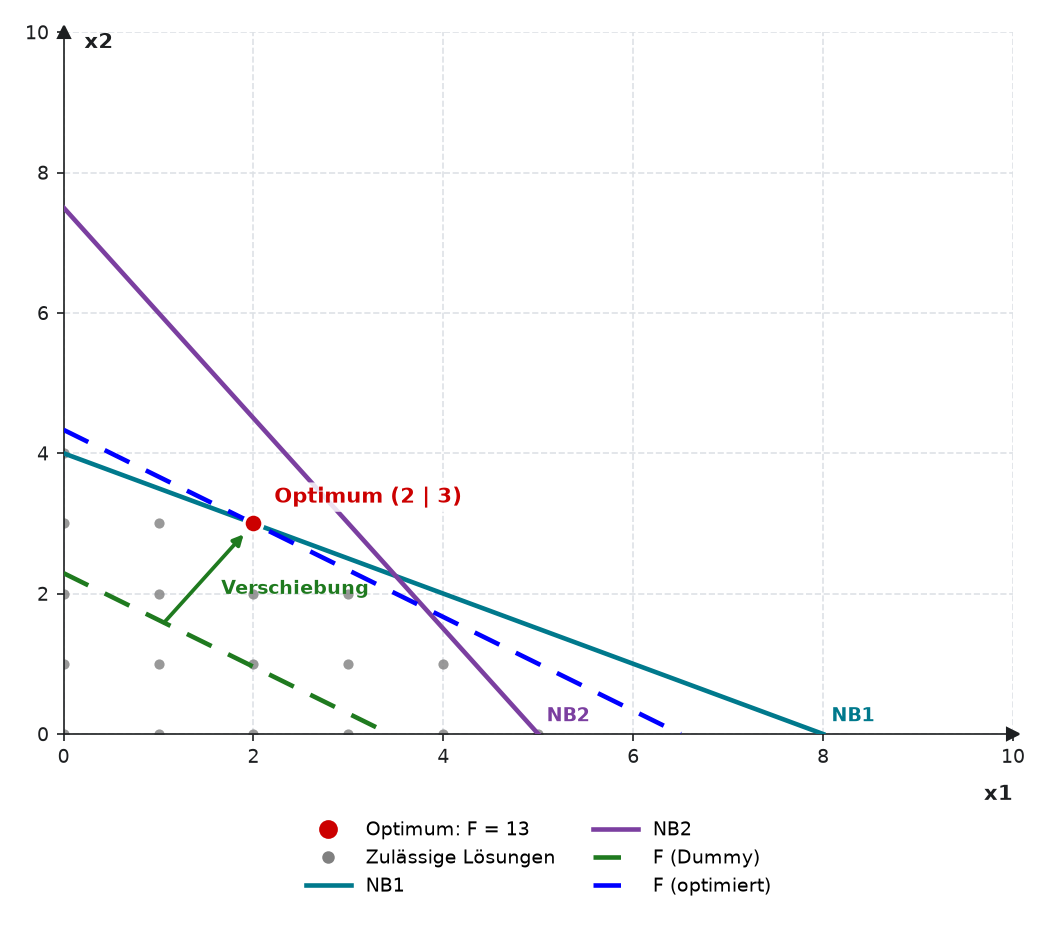
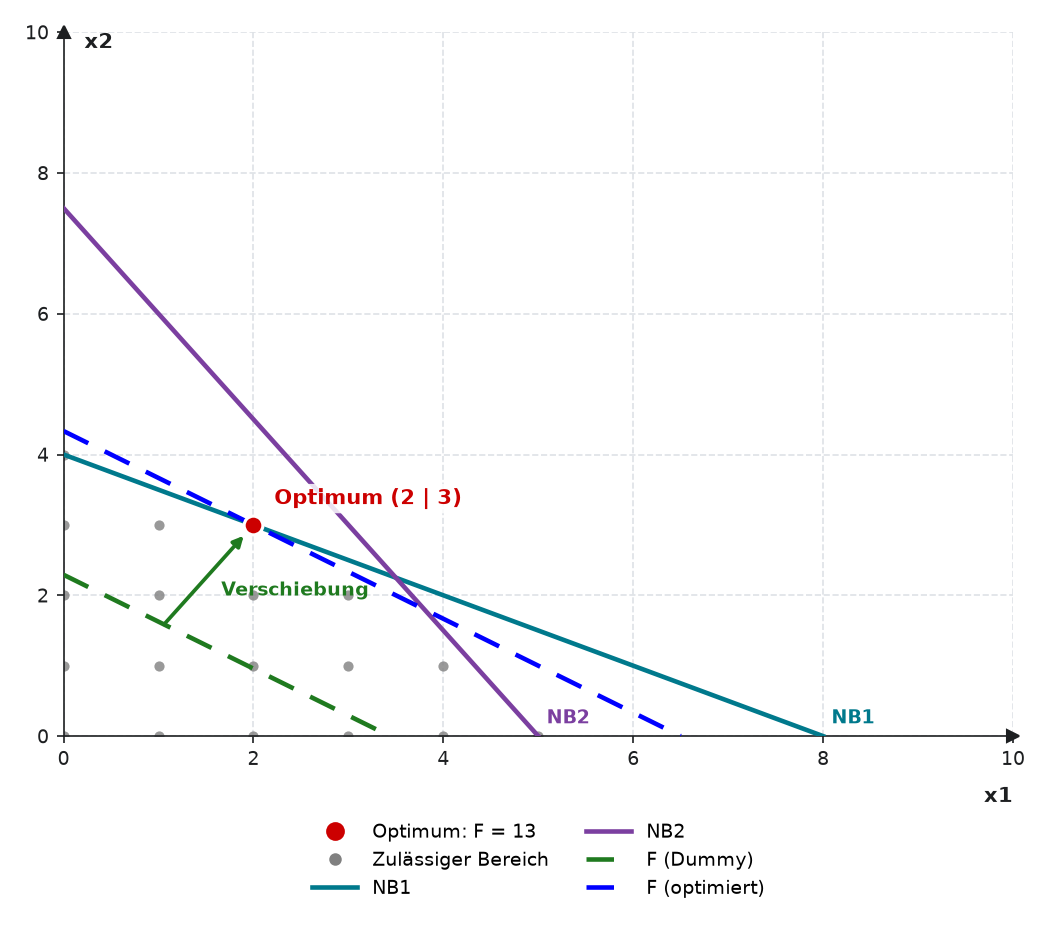
Resposovität

diff --git a/shiny_files/www/work.css b/shiny_files/www/work.css
@@ -150,7 +150,8 @@
   .os-credit-end { display: block; padding-top: 0.25rem; }
   .os-sidebar-btn[data-sidebar-toggle] { display: none; }
   .os-main { gap: 0.75rem; }
-  .os-graph { height: min(122vw, 36rem) !important; min-height: 0; }
+  /* tall enough for the axes and the one-column legend below them (plotting.draw, compact) */
+  .os-graph { height: min(160vw, 44rem) !important; min-height: 0; }
   .os-results > .card { min-height: 0; }
   .os-results .card-body { overflow-x: auto; }
   .os-results .os-table { font-size: 0.8125rem; }

diff --git a/shiny_files/optisense/pages/work/plotting.py b/shiny_files/optisense/pages/work/plotting.py
@@ -16,7 +16,7 @@ from optisense.config import DUMMY, FEASIBLE, GRID, INK, OPTIMIZED, OPTIMUM, con
 from optisense.i18n import fmt_num, t  # noqa: E402
 
 
-def _base_axes(ax, xmax, ymax, k=1.0):
+def _base_axes(ax, xmax, ymax, k=1.0, compact=False):
     ax.set_xlim(0, xmax)
     ax.set_ylim(0, ymax)
     for side in ("top", "right"):
@@ -28,7 +28,10 @@ def _base_axes(ax, xmax, ymax, k=1.0):
     ax.annotate("x1", (1, 0), xycoords="axes fraction", xytext=(0, -24), textcoords="offset points",
                 ha="right", va="top", color=INK, fontsize=10 * k, fontweight="bold")
     ax.annotate("x2", (0, 1), xycoords="axes fraction", xytext=(10, 0), textcoords="offset points",
-                ha="left", va="top", color=INK, fontsize=10 * k, fontweight="bold")
+                ha="left", va="top", color=INK, fontsize=10 * k, fontweight="bold",
+                # on a phone the region fills the axes and lines run through the corner: keep “x2” readable
+                bbox={"boxstyle": "round,pad=0.15", "fc": "white", "ec": "none", "alpha": 0.85} if compact else None,
+                zorder=8 if compact else 3)
     ax.tick_params(colors=INK, labelsize=9 * k)
     ax.plot(1, 0, ">", color=INK, transform=ax.get_yaxis_transform(), clip_on=False, ms=6 * k)
     ax.plot(0, 1, "^", color=INK, transform=ax.get_xaxis_transform(), clip_on=False, ms=6 * k)
@@ -37,32 +40,36 @@ def _base_axes(ax, xmax, ymax, k=1.0):
 def _label_at(ax, end, text, color, xmax, ymax, k):
     x, y = end
     ha = "right" if x > 0.8 * xmax else "left"
+    va = "top" if y > 0.9 * ymax else "bottom"   # near the top edge below the line, so it stays inside the axes
     x = min(max(x, 0.01 * xmax), 0.99 * xmax)
-    y = min(max(y, 0.0), 0.97 * ymax)
-    return ax.annotate(text, (x, y), xytext=(-4 if ha == "right" else 4, 4), textcoords="offset points",
-                       ha=ha, va="bottom", color=color, fontsize=9 * k, fontweight="bold",
+    y = min(max(y, 0.0), ymax)
+    return ax.annotate(text, (x, y), xytext=(-4 if ha == "right" else 4, -4 if va == "top" else 4), textcoords="offset points",
+                       ha=ha, va=va, color=color, fontsize=9 * k, fontweight="bold",
                        bbox={"boxstyle": "round,pad=0.15", "fc": "white", "ec": "none", "alpha": 0.75})
 
 
 def _label_line(ax, seg, text, color, xmax, ymax, k=1.0, taken=None):
-    """Write `text` next to an end of a line segment, kept inside the axes.
+    """Write `text` next to a line segment, kept inside the axes.
 
-    The end further right comes first (for vertical lines the upper end). `taken` holds the boxes of the labels
-    written before: if the label would cover one of them – e.g. two lines that meet the x1 axis close together –
-    it goes to the other end of its line."""
+    The end further right comes first (for vertical lines the upper end), then the other end, then points along the
+    line. `taken` holds the boxes of the texts written before: a label that would cover one of them – e.g. two lines
+    that meet the x1 axis close together – moves on to the next place."""
     (xa, ya), (xb, yb) = seg
     first = (xb, yb) if (xb, yb) >= (xa, ya) else (xa, ya)
     if abs(xa - xb) < 1e-9:
         first = (xa, max(ya, yb))
     other = (xa, ya) if first == (xb, yb) else (xb, yb)
+    along = [(other[0] + f * (first[0] - other[0]), other[1] + f * (first[1] - other[1])) for f in (0.75, 0.25, 0.5)]
     renderer = ax.figure.canvas.get_renderer()
-    for end in (first, other):
-        label = _label_at(ax, end, text, color, xmax, ymax, k)
+    axes_box = ax.get_window_extent(renderer)
+    for place in (first, other, *along):
+        label = _label_at(ax, place, text, color, xmax, ymax, k)
         box = label.get_window_extent(renderer).padded(3 * k)
-        if taken is None or not any(box.overlaps(b) for b in taken):
+        inside = box.x0 >= axes_box.x0 - 2 and box.x1 <= axes_box.x1 + 2 and box.y1 <= axes_box.y1 + 2
+        if taken is None or (inside and not any(box.overlaps(b) for b in taken)):
             break
         label.remove()
-    else:   # both ends are taken: the usual end
+    else:   # no free place: the usual end
         label = _label_at(ax, first, text, color, xmax, ymax, k)
         box = label.get_window_extent(renderer).padded(3 * k)
     if taken is not None:
@@ -75,7 +82,10 @@ def draw(objective, constraints, var_types, solution, lang, figsize=None, scale=
     objective: dict or None; constraints: active constraints, each with "color_index";
     solution: result of core.solve or None.
     scale: factor for fonts, lines and markers; the page sends it so large screens get larger labels.
-    compact: narrow graph (smartphones); the legend keeps a fixed distance below the x1 label.
+    compact: narrow graph (smartphones): the axes zoom to the feasible region and the optimum, the legend has one
+    column and keeps a fixed distance below the x1 label, the optimum is labelled with its coordinates only and the
+    shift of the objective line without a word – so that everything stays readable on 300 px.
+    figsize should be the real size: the line labels are placed in the final layout so that none covers another.
     """
     k = max(0.8, min(float(scale or 1.0), 2.0))
     fig, ax = plt.subplots(figsize=figsize or (7, 6.2))
@@ -89,8 +99,8 @@ def draw(objective, constraints, var_types, solution, lang, figsize=None, scale=
         return fig
 
     sol = solution if solution and solution.get("status") == "optimal" else None
-    xmax, ymax = core.plot_bounds(objective, constraints, sol)
-    _base_axes(ax, xmax, ymax, k)
+    xmax, ymax = (core.zoom_bounds if compact else core.plot_bounds)(objective, constraints, sol)
+    _base_axes(ax, xmax, ymax, k, compact)
     handles = []
 
     # feasible region
@@ -118,15 +128,15 @@ def draw(objective, constraints, var_types, solution, lang, figsize=None, scale=
             ax.plot([lo, hi], [y, y], color=FEASIBLE, lw=2.2 * k, alpha=0.6, zorder=1, solid_capstyle="butt")
         handles.append(mlines.Line2D([], [], color=FEASIBLE, lw=2.2 * k, alpha=0.6, label=t(lang, "plot_points")))
 
-    # constraints
-    taken = []   # boxes of the line labels, so no label covers another
+    # constraints (their labels come last, see below)
+    line_labels = []
     for con in constraints:
         color, style = constraint_style(con["color_index"])
         seg = core.line_in_box(con["a1"], con["a2"], con["b"], xmax, ymax)
         if seg:
             (xa, ya), (xb, yb) = seg
             ax.plot([xa, xb], [ya, yb], color=color, ls=style, lw=2.2 * k, zorder=3)
-            _label_line(ax, seg, con["name"], color, xmax, ymax, k, taken)
+            line_labels.append((seg, con["name"], color))
         handles.append(mlines.Line2D([], [], color=color, ls=style, lw=2.2 * k, label=con["name"]))
 
     # dummy objective line and, after solving, the optimized line
@@ -152,11 +162,13 @@ def draw(objective, constraints, var_types, solution, lang, figsize=None, scale=
             ax.annotate("", xy=(x0, y0), xytext=foot, zorder=5,
                         arrowprops={"arrowstyle": "-|>", "color": DUMMY, "lw": 1.8 * k, "shrinkA": 0, "shrinkB": 7})
             mx, my = (foot[0] + x0) / 2, (foot[1] + y0) / 2
-            ax.annotate(t(lang, "plot_shift"), (mx, my), xytext=(6, -10), textcoords="offset points",
-                        color=DUMMY, fontsize=9 * k, fontweight="bold")
+            if not compact:   # on a phone the arrow says it alone
+                ax.annotate(t(lang, "plot_shift"), (mx, my), xytext=(6, -10), textcoords="offset points",
+                            color=DUMMY, fontsize=9 * k, fontweight="bold")
         ax.plot([x0], [y0], "o", color=OPTIMUM, ms=9 * k, zorder=6, mec="white", mew=1.5 * k)
-        label = f"{t(lang, 'plot_optimum')} ({fmt_num(x0, lang)} | {fmt_num(y0, lang)})"
-        ha = "right" if x0 > 0.6 * xmax else "left"
+        point = f"({fmt_num(x0, lang)} | {fmt_num(y0, lang)})"
+        label = point if compact else f"{t(lang, 'plot_optimum')} {point}"   # the legend names it on a phone
+        ha = "right" if x0 > (0.5 if compact else 0.6) * xmax else "left"
         ax.annotate(label, (x0, y0), xytext=(-10 if ha == "right" else 10, 10), textcoords="offset points",
                     ha=ha, color=OPTIMUM, fontsize=10 * k, fontweight="bold", zorder=7,
                     bbox={"boxstyle": "round,pad=0.2", "fc": "white", "ec": "none", "alpha": 0.85})
@@ -167,9 +179,21 @@ def draw(objective, constraints, var_types, solution, lang, figsize=None, scale=
     anchor = {"bbox_to_anchor": (0.5, -0.1)}
     if compact:
         anchor = {"bbox_to_anchor": (0.5, 0), "bbox_transform": ax.transAxes + ScaledTranslation(0, -38 * k / 72, fig.dpi_scale_trans)}
-    ax.legend(handles=handles, loc="upper center", ncol=2 if len(handles) > 2 else len(handles), fontsize=9 * k,
-              frameon=False, handlelength=2.4 if not compact else 1.8, **anchor)
+    ncol = 1 if compact else (2 if len(handles) > 2 else len(handles))   # one column fits a phone's width
+    width, height = fig.get_size_inches()
+    if compact and width > 1.3 * height:   # a phone held sideways: the legend beside the axes, so they keep their height
+        anchor = {"loc": "center left", "bbox_to_anchor": (1.02, 0.5)}
+    ax.legend(handles=handles, **{"loc": "upper center", **anchor}, ncol=ncol, fontsize=9 * k,
+              frameon=False, handlelength=2.4 if not compact else 1.8)
     fig.set_layout_engine("tight", pad=1.2)
+
+    # the line labels last, in the final layout: only then are their sizes on screen known, so that none covers
+    # another label, the optimum or the word “shift”
+    fig.get_layout_engine().execute(fig)
+    renderer = fig.canvas.get_renderer()
+    taken = [a.get_window_extent(renderer).padded(2 * k) for a in ax.texts if a.get_text()]   # x1, x2, optimum, shift
+    for seg, name, color in line_labels:
+        _label_line(ax, seg, name, color, xmax, ymax, k, taken)
     return fig
 
 

diff --git a/shiny_files/optisense/pages/learn/texts.py b/shiny_files/optisense/pages/learn/texts.py
@@ -207,8 +207,8 @@ _L = {
                      "Setze deinen optimalen Punkt in jede Nebenbedingung ein: Wie viel bleibt übrig? Bleibt nichts übrig, ist die Nebenbedingung bindend."),
     "lead_corner": _t("Move the green objective line until it just touches the feasible region. Then tap this corner in the graph.",
                       "Verschiebe die grüne Zielfunktionsgerade, bis sie den zulässigen Bereich gerade noch berührt. Tippe dann in der Grafik auf diese Ecke."),
-    "lead_optimum": _t("Move the green objective line until it just touches the feasible points. Tap this point and enter its objective value.",
-                       "Verschiebe die grüne Zielfunktionsgerade, bis sie die zulässigen Punkte gerade noch berührt. Tippe auf diesen Punkt und gib seinen Zielwert an."),
+    "lead_optimum": _t("Move the green objective line until it just touches the feasible region. Tap the point where it touches and enter its objective value.",
+                       "Verschiebe die grüne Zielfunktionsgerade, bis sie den zulässigen Bereich gerade noch berührt. Tippe auf den Punkt, an dem sie ihn berührt, und gib seinen Zielwert an."),
     "lead_optimum_calc": _t("Your corner is where the two lines meet. Calculate this intersection exactly, and its objective value.",
                             "Deine Ecke ist der Schnittpunkt der zwei Geraden. Berechne ihn genau und dazu den Zielwert."),
     "lead_interpret": _t("Finally: what does your result mean?", "Zum Schluss: Was bedeutet dein Ergebnis?"),
@@ -331,8 +331,8 @@ _L = {
                      "Setze den Punkt in jede Nebenbedingung ein. Eine einzige verletzte Bedingung genügt für „unzulässig“. Bei ganzzahligen Variablen zählen nur ganze Werte."),
     "hint_boundary": _t("Move the green line in the direction in which F improves until it touches the gray region at a single corner. If two corners look equally good, calculate F at both and take the better one.",
                         "Verschiebe die grüne Gerade in die Richtung, in der F besser wird, bis sie den grauen Bereich nur noch in einer Ecke berührt. Sehen zwei Ecken gleich gut aus, berechne F in beiden und nimm die bessere."),
-    "hint_opt": _t("The point must satisfy every condition and have the best objective value. Do not just round the LP solution – compare the feasible points near the green line.",
-                   "Der Punkt muss alle Bedingungen erfüllen und den besten Zielwert haben. Runde nicht einfach die LP-Lösung – vergleiche die zulässigen Punkte nahe der grünen Geraden."),
+    "hint_opt": _t("The point must satisfy every condition and have the best objective value. Do not just round the LP solution – compare the points of the feasible region near the green line.",
+                   "Der Punkt muss alle Bedingungen erfüllen und den besten Zielwert haben. Runde nicht einfach die LP-Lösung – vergleiche die Punkte des zulässigen Bereichs nahe der grünen Geraden."),
     "hint_opt_corner": _t("Treat both lines of your corner as equations. Solve one for x1 or x2 and substitute it into the other. Check the point in both equations.",
                           "Nimm die beiden Geraden deiner Ecke als Gleichungen. Löse eine nach x1 oder x2 auf und setze sie in die andere ein. Prüfe den Punkt in beiden Gleichungen."),
     "hint_z": _t("Put your optimal point into the objective function: F = c1·x1 + c2·x2.",

diff --git a/shiny_files/optisense/pages/work/texts.py b/shiny_files/optisense/pages/work/texts.py
@@ -101,15 +101,15 @@ TEXT = {
     "no_intercept": {"en": "nowhere", "de": "nirgends"},
     "desc_region": {"en": "The gray area is the feasible region: every point there satisfies all active constraints and x1, x2 ≥ 0.",
                     "de": "Die graue Fläche ist der zulässige Bereich: Jeder Punkt dort erfüllt alle aktiven Nebenbedingungen und x1, x2 ≥ 0."},
-    "desc_region_int": {"en": "The gray points (or lines) are the feasible solutions: they satisfy all active constraints and the chosen integer conditions.",
-                        "de": "Die grauen Punkte (bzw. Linien) sind die zulässigen Lösungen: Sie erfüllen alle aktiven Nebenbedingungen und die gewählten Ganzzahligkeitsbedingungen."},
+    "desc_region_int": {"en": "The gray points (or lines) form the feasible region: they satisfy all active constraints and the chosen integer conditions.",
+                        "de": "Die grauen Punkte (bzw. Linien) bilden den zulässigen Bereich: Sie erfüllen alle aktiven Nebenbedingungen und die gewählten Ganzzahligkeitsbedingungen."},
     "desc_thinned": {"en": "The range is large, so only every n-th integer value is drawn.",
                      "de": "Der Bereich ist groß, daher wird nur jeder n-te ganzzahlige Wert gezeichnet."},
     "desc_heading_functions": {"en": "Functions in the graph", "de": "Funktionen im Graphen"},
     "desc_heading_solution": {"en": "Optimum", "de": "Optimum"},
     # ------------------------------------------------------------------ plot
     "plot_region": {"en": "Feasible region", "de": "Zulässiger Bereich"},
-    "plot_points": {"en": "Feasible solutions", "de": "Zulässige Lösungen"},
+    "plot_points": {"en": "Feasible region", "de": "Zulässiger Bereich"},   # integer: points or lines – still a region (Robin, 2026-11-17)
     "plot_optimum": {"en": "Optimum", "de": "Optimum"},
     "plot_dummy": {"en": "{name} (dummy)", "de": "{name} (Dummy)"},   # the objective line before it is moved to the optimum
     "plot_optimized": {"en": "{name} (optimized)", "de": "{name} (optimiert)"},

diff --git a/shiny_files/optisense/pages/guide/texts.py b/shiny_files/optisense/pages/guide/texts.py
@@ -12,8 +12,8 @@ TEXT = {
     "guide_about": {"en": "About OptiSense", "de": "Über OptiSense"},
     "fig_app": {"en": "The page “Model & solution” with the solved example: steps (left), graph (middle), results (right).",
                 "de": "Die Seite „Modell & Lösung“ mit dem gelösten Beispiel: Schritte (links), Graph (Mitte), Ergebnisse (rechts)."},
-    "fig_model": {"en": "The example as a graph: buns, meat and vegetables bound the feasible solutions (gray, whole numbers only); the dashed green line is the objective line.",
-                  "de": "Das Beispiel als Graph: Brötchen, Fleisch und Gemüse begrenzen die zulässigen Lösungen (grau, nur ganze Zahlen); die gestrichelte grüne Gerade ist die Zielfunktionsgerade."},
+    "fig_model": {"en": "The example as a graph: buns, meat and vegetables bound the feasible region (gray, whole numbers only); the dashed green line is the objective line.",
+                  "de": "Das Beispiel als Graph: Brötchen, Fleisch und Gemüse begrenzen den zulässigen Bereich (grau, nur ganze Zahlen); die gestrichelte grüne Gerade ist die Zielfunktionsgerade."},
     "fig_solved": {"en": "The solved example: the objective line is shifted in parallel up to the corner (300 | 200), where the maximum revenue of 2,550 lies.",
                    "de": "Das gelöste Beispiel: Die Zielfunktionsgerade wird parallel bis zur Ecke (300 | 200) verschoben; dort liegt der maximale Umsatz von 2.550."},
     "fig_integer": {"en": "A small ILP: F = 2·x1 + 3·x2 → max with x1 + 2·x2 ≤ 8 and 3·x1 + 2·x2 ≤ 15. Only the gray points are feasible. The optimum (2 | 3) with F = 13 is not a corner. Rounding the LP solution (3.5 | 2.25) gives at best (3 | 2) with only F = 12.",

diff --git a/shiny_files/optisense/core/geometry.py b/shiny_files/optisense/core/geometry.py
@@ -31,6 +31,22 @@ def plot_bounds(objective, constraints, solution=None):
     return _nice_ceil(xmax * 1.1), _nice_ceil(ymax * 1.1)
 
 
+def zoom_bounds(objective, constraints, solution=None):
+    """Axis limits for narrow screens: the feasible region and the optimum with 10 % room instead of every axis
+    intercept – the burger example shows 600 | 400 instead of 1,200 | 600, so the region is not squeezed into a corner.
+    The usual limits when the region reaches their edge (unbounded) or is empty."""
+    xmax, ymax = plot_bounds(objective, constraints, solution)
+    poly = feasible_polygon(constraints, xmax, ymax)
+    if not poly:
+        return xmax, ymax
+    px, py = max(p[0] for p in poly), max(p[1] for p in poly)
+    if px >= xmax * (1 - 1e-6) or py >= ymax * (1 - 1e-6):
+        return xmax, ymax
+    if solution and solution.get("status") == "optimal":
+        px, py = max(px, solution["x1"]), max(py, solution["x2"])
+    return min(xmax, _nice_ceil(px * 1.1)), min(ymax, _nice_ceil(py * 1.1))
+
+
 def _nice_ceil(v):
     if v <= 0:
         return 10.0

diff --git a/shiny_files/optisense/pages/work/server/graph.py b/shiny_files/optisense/pages/work/server/graph.py
@@ -31,7 +31,14 @@ def register(ctx):
             phone = bool(input.ui_phone())
         except Exception:  # noqa: BLE001 - not sent yet
             phone = False
-        return make_figure(compact=phone)
+        # draw at the size Shiny will save (the container), so that the line labels can avoid each other
+        try:
+            w, h = float(input[".clientdata_output_plot_width"]()), float(input[".clientdata_output_plot_height"]())
+            dpi = plotting.plt.rcParams["figure.dpi"]
+            figsize = (w / dpi, h / dpi) if w > 50 and h > 50 else None
+        except Exception:  # noqa: BLE001 - not sent yet
+            figsize = None
+        return make_figure(figsize=figsize, compact=phone)
 
     @reactive.effect
     @reactive.event(input.btn_png)

diff --git a/shiny_files/optisense/core/__init__.py b/shiny_files/optisense/core/__init__.py
@@ -1,7 +1,7 @@
 """Core logic of OptiSense (no Shiny code): model, solver, geometry, LP files, sensitivity analysis."""
 
 from .geometry import (dummy_level, feasible_polygon, feasible_region, intercepts, is_feasible, line_in_box,
-                       perpendicular_foot, plot_bounds)
+                       perpendicular_foot, plot_bounds, zoom_bounds)
 from .lp_format import LPParseError, parse_lp_file, to_lp_file
 from .model import EPS, OPERATORS, constraint_activity, integrality, problem_type
 from .sensitivity import find_lp_solve, parse_sensitivity, run_sensitivity
